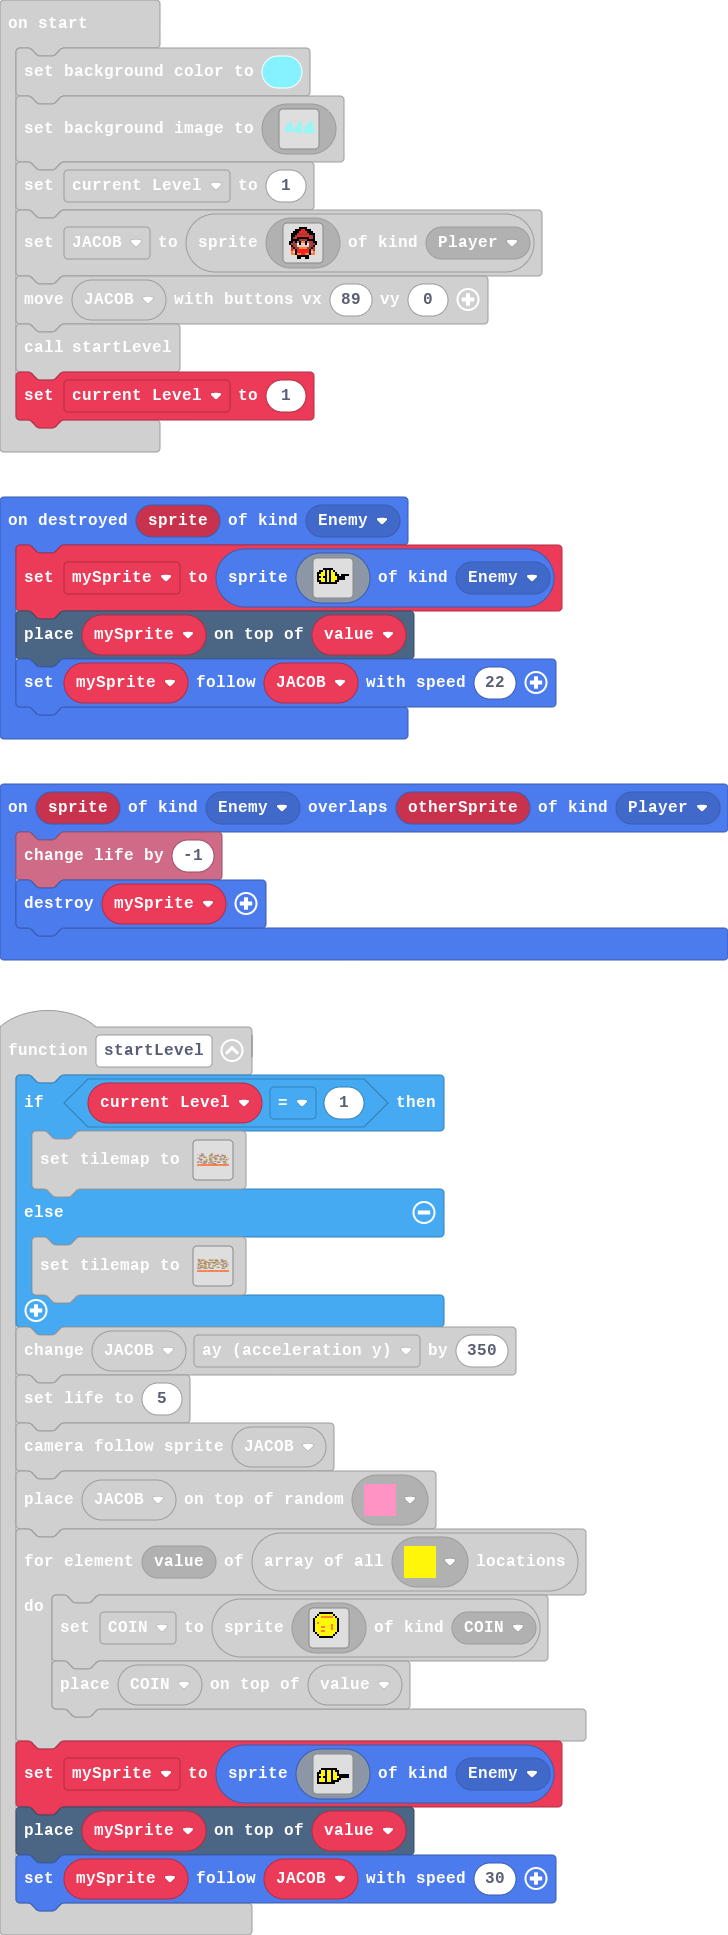
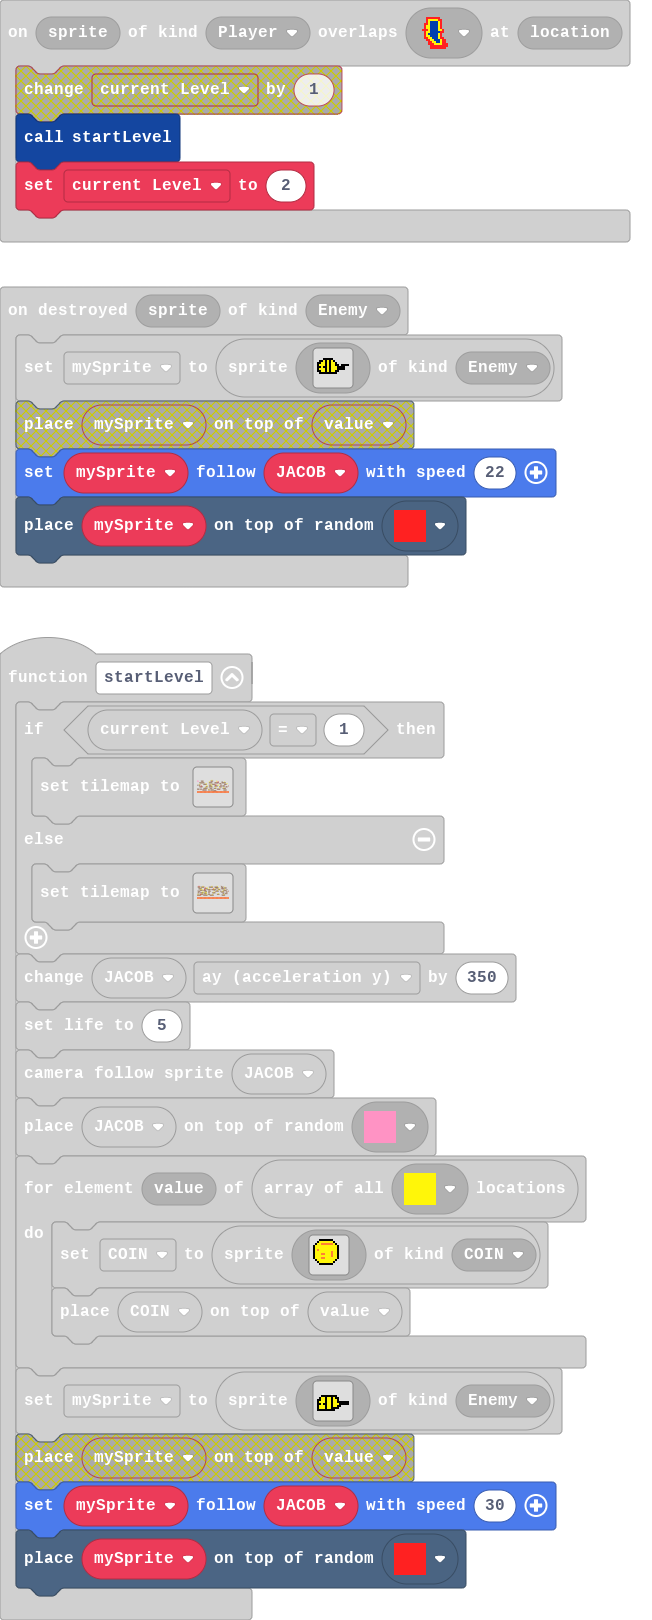
Update main.blocks, main.ts, tilemap.g.jres, tilemap.g.ts

diff --git a/tilemap.g.ts b/tilemap.g.ts
@@ -80,6 +80,25 @@ namespace myTiles {
 . . . . . . . . . . . . . . . . 
 . . . . . . . . . . . . . . . . 
 `, [myTiles.transparency16], TileScale.Sixteen);
+            case "level4":
+            case "level4":return tiles.createTilemap(hex`2800100000000000000000000000000000000000000004000000000000000000000000000000000000000000050500000001010100000000000000000002020200000000040000000000000000000000000000000000000000000000000000000000000400000000000000000000070000000001000004000000000000000001010101010100000000000001010101000000020202020200000000010101010100000000000000000000000000000004000000000000000000000000000000000202000000000000000400000000000400000000010101010000000000040001010101000000000000000000000002020200000001000101000000000000000000000001010100000000000700000400000202000000000000000000000000000007000000000000040000000000040000000101010100000000000001010100000000060000000202020200000000020200000101010100000000000000000002020200000000000202000000000000000000000000040000000000000000000000000400000000040000000004000000000000000000000000000001010101010000000101010000010101000000000000000001010101000000000101010002020000000000000000040000000000000000000002020202000000000000000000000000000000000000020202020200000202000101010100000000000000000000000001010101000000000000000000000000000000000000000000000000020202000000000000000000000000000000000303030303030303030303030303030303030303030303030303030303030303030303030303030303030303030303030303030303030303030303030303030303030303030303030303030303030303`, img`
+........................................
+.....222.........222....................
+...............................2........
+...222222......2222...22222....22222....
+............................22..........
+........2222.......2222...........222...
+2.22...........222...........22.........
+......................2222......222.....
+...2222....22..2222.........222.....22.2
+........................................
+........22222...222..222........2222....
+222.22...................2222...........
+.......22222..22.2222............2222...
+.....................222................
+........................................
+........................................
+`, [myTiles.transparency16,myTiles.tile4,myTiles.tile1,myTiles.tile5,myTiles.tile7,myTiles.tile9,myTiles.tile6,myTiles.tile8], TileScale.Sixteen);
             case "level 2":
             case "level5":return tiles.createTilemap(hex`2800100000000500000000030000000000000000000003000000000000030000000001000000000000000000000101010001010101000000000000010101010100000101010100000000000101000300000000000000000003000000000005000300000000000000000000010101010000000101000001010100000000000101010100000001010101000003000000000503000000000003000000010101000000000000000000000003030000050000000101010100010101010101000001010100000000000300000100000000000001010100010101000000000000000000000100000003000000000000000101010100000000010101000000000000000100000101010000000000000101010100000100000300000000000002000000000000000300010101000000000000000000030000000000000000010101010000010100000001010001010101000003030000010100000001010101000000000000000000000000000000000000000000000003000001010100000000000000000000000000000300000000000101000101010000000300000501010100000000030001010000000300000000000101010000000000030000000000000101010101000000010101010100000001010101010000000000000000000001010101000000000000000000000000000000000000000000000000000000000000000000000000000000000000000000000000000000000000000000000000000000000000000000000000000000000000000000000000000404040404040404040404040404040404040404040404040404040404040404040404040404040404040404040404040404040404040404040404040404040404040404040404040404040404040404`, img`
 ..............................2.........
@@ -89,7 +108,7 @@ namespace myTiles {
 .............2222.222222..222........2..
 ....222.222..........2...........2222...
 .222.......2..222......2222..2..........
-.........222..................2222..22..
+.........222..................2222..22.2
 .22.2222......22...2222.................
 .........222....................22.222..
 .....222......22.........222............
@@ -99,25 +118,6 @@ namespace myTiles {
 ........................................
 ........................................
 `, [myTiles.transparency16,myTiles.tile4,myTiles.tile6,myTiles.tile7,myTiles.tile5,myTiles.tile8], TileScale.Sixteen);
-            case "level4":
-            case "level4":return tiles.createTilemap(hex`2800100000000000000000000000000000000000000004000000000000000000000000000000000000000000050500000001010100000000000000000002020200000000040000000000000000000000000000000000000000000000000000000000000400000000000000000000070000000001000004000000000000000001010101010100000000000001010101000000020202020200000000010101010100000000000000000000000000000004000000000000000000000000000000000202000000000000000400000000000400000000010101010000000000040001010101000000000000000000000002020200000001000101000000000000000000000001010100000000000700000400000202000000000000000000000000000007000000000000040000000000040000000101010100000000000001010100000000060000000202020200000000020200000101010100000000000000000002020200000000000202000000000000000000000000040000000000000000000000000400000000040000000000000400000000000000000000000001010101010000000101010000010101000000000000000001010101000000000101010002020000000000000000040000000000000000000002020202000000000000000000000000000000000000020202020200000202000101010100000000000000000000000001010101000000000000000000000000000000000000000000000000020202000000000000000000000000000000000303030303030303030303030303030303030303030303030303030303030303030303030303030303030303030303030303030303030303030303030303030303030303030303030303030303030303`, img`
-........................................
-.....222.........222....................
-...............................2........
-...222222......2222...22222....22222....
-............................22..........
-........2222.......2222...........222...
-2.22...........222...........22.........
-......................2222......222.....
-...2222....22..2222.........222.....22..
-........................................
-........22222...222..222........2222....
-222.22...................2222...........
-.......22222..22.2222............2222...
-.....................222................
-........................................
-........................................
-`, [myTiles.transparency16,myTiles.tile4,myTiles.tile1,myTiles.tile5,myTiles.tile7,myTiles.tile9,myTiles.tile6,myTiles.tile8], TileScale.Sixteen);
         }
         return null;
     })

diff --git a/main.ts b/main.ts
@@ -7,7 +7,7 @@ controller.A.onEvent(ControllerButtonEvent.Pressed, function () {
     }
 })
 scene.onOverlapTile(SpriteKind.Player, assets.tile`portal`, function (sprite, location) {
-    current_Level += 1
+    current_Level = 2
     startLevel()
 })
 scene.onOverlapTile(SpriteKind.Player, assets.tile`myTile3`, function (sprite, location) {
@@ -40,7 +40,7 @@ sprites.onDestroyed(SpriteKind.Enemy, function (sprite) {
         . . . . . . . . . . . . . . . . 
         . . . . . . . . . . . . . . . . 
         `, SpriteKind.Enemy)
-    tiles.placeOnTile(mySprite, value)
+    tiles.placeOnRandomTile(mySprite, assets.tile`myTile5`)
     mySprite.follow(JACOB, 22)
 })
 function startLevel () {
@@ -92,11 +92,10 @@ function startLevel () {
         . . . . . . . . . . . . . . . . 
         . . . . . . . . . . . . . . . . 
         `, SpriteKind.Enemy)
-    tiles.placeOnTile(mySprite, value)
+    tiles.placeOnRandomTile(mySprite, assets.tile`myTile5`)
     mySprite.follow(JACOB, 30)
 }
 let COIN: Sprite = null
-let value: tiles.Location = null
 let mySprite: Sprite = null
 let JACOB: Sprite = null
 let current_Level = 0
